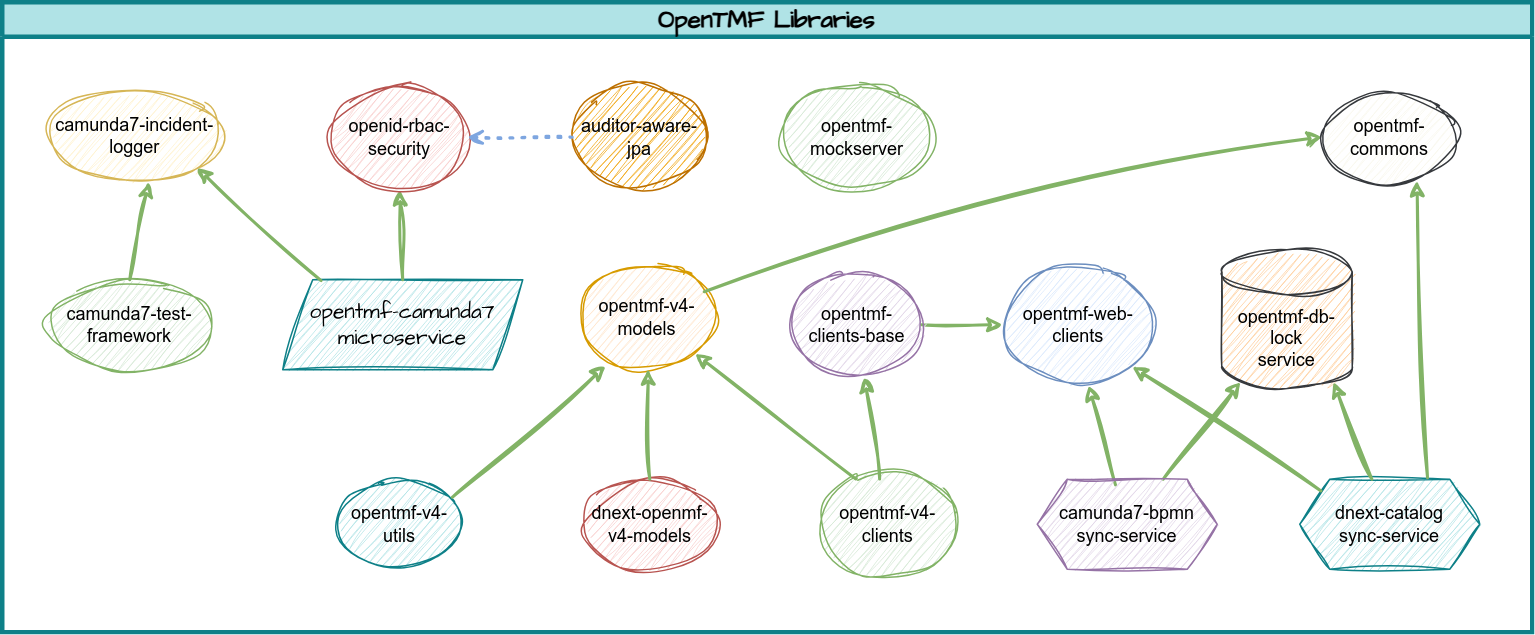
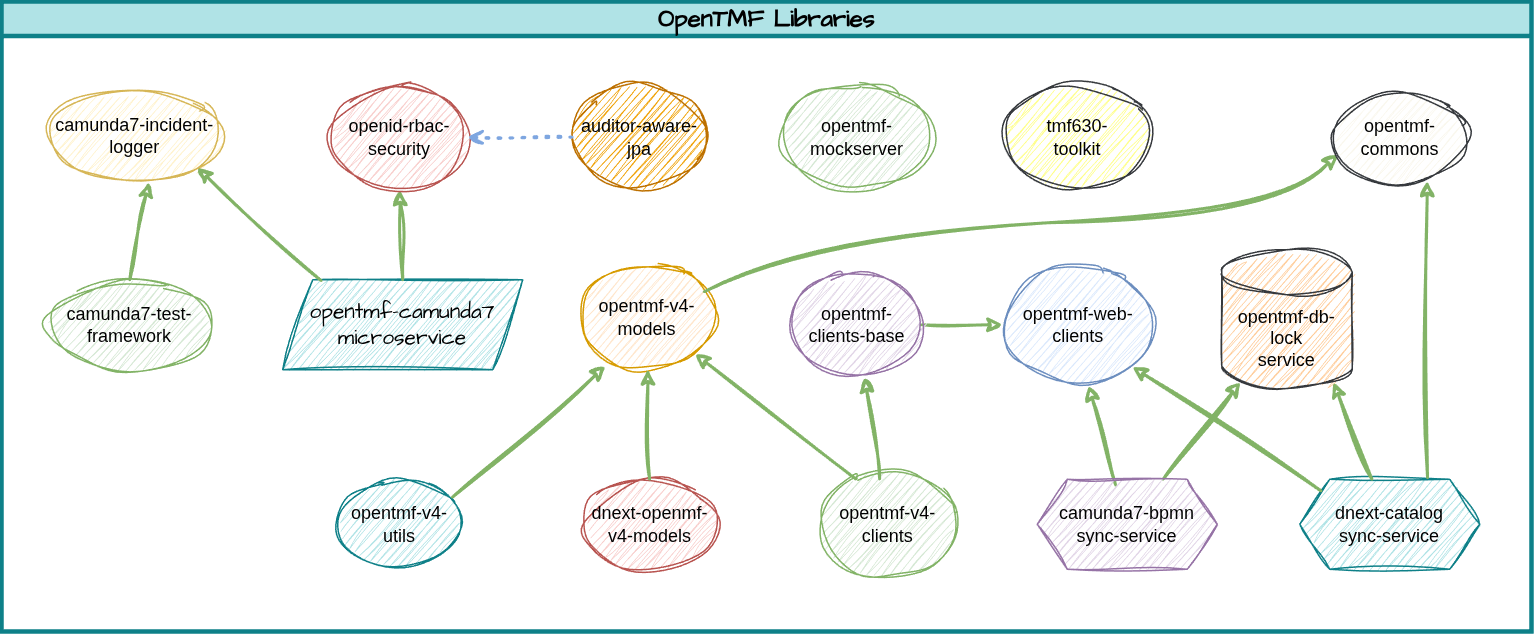
- Adds tmf630-toolkit dependencies (version 1.0.0) and updates README with version 1.4.1 notes.

diff --git a/README.md b/README.md
@@ -178,3 +178,5 @@ And then you can depend on any OpenTMF project without specifying its version. F
 - Updates auditor-aware-jpa to 1.0.5 (fixes potential NPE in auditor-aware providers when authentication.getName() returns null)
 ### 1.4.0
 - Updates camunda7-test-framework to 1.0.7 (enhances support for more task types that can receive a correlation message).
+### 1.4.1
+- Added tmf630-toolkit artifacts.
